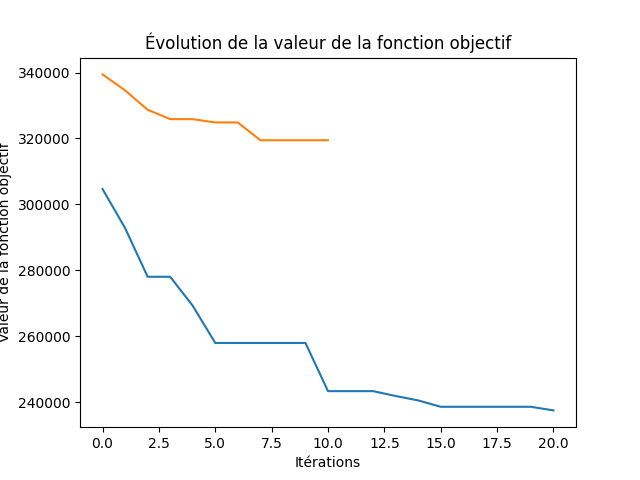
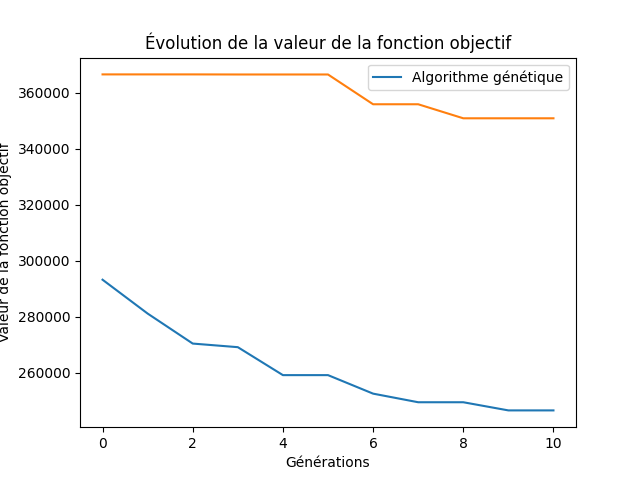
Fin

diff --git a/templates/index.html b/templates/index.html
@@ -75,6 +75,7 @@
 
         </div>
         <div class="full-line"><input type="submit" value="Start"></div>
+        <div class="full-line"><img src="/static/last.png" alt=""></div>
     </form>
 </body>
 

diff --git a/app.py b/app.py
@@ -44,7 +44,30 @@ def index():
     config_genetique, gen_val = gen.run(100, 10, 0.1)
     config_recuit, rec_val = recuit.run(10, 100)
     config_tabou, tab_val = tabou.run(10, 100)
-    return render_template('index.html', range_4=range(4), range_10=range(10), config_genetique=config_genetique, config_recuit=config_recuit, config_tabou=config_tabou, gen_val=gen_val, rec_val=rec_val, tab_val=tab_val, recuit_iterations=10, recuit_temperature=100, gen_iterations=10, gen_popsize=100, gen_mutprob=0.1, taboo_iterations=10, taboo_taille=100)
+    new_gen_config = []
+    new_rec_config = []
+    new_tab_config = []
+    for i in range(0, 4):
+        temp_gen = []
+        temp_rec = []
+        temp_tab = []
+        for j in range(10):
+            if i*10+j < len(config_genetique):
+                temp_gen.append(config_genetique[i*10+j])
+            else:
+                temp_gen.append('\0')
+            if i*10+j < len(config_recuit):
+                temp_rec.append(config_recuit[i*10+j])
+            else:
+                temp_rec.append('\0')
+            if i*10+j < len(config_tabou):
+                temp_tab.append(config_tabou[i*10+j])
+            else:
+                temp_tab.append('\0')
+        new_gen_config.append(temp_gen)
+        new_rec_config.append(temp_rec)
+        new_tab_config.append(temp_tab)
+    return render_template('index.html', range_4=range(4), range_10=range(10), config_genetique=new_gen_config, config_recuit=new_rec_config, config_tabou=new_tab_config, gen_val=gen_val, rec_val=rec_val, tab_val=tab_val, recuit_iterations=10, recuit_temperature=100, gen_iterations=10, gen_popsize=100, gen_mutprob=0.1, taboo_iterations=10, taboo_taille=100)
 
 if __name__ == '__main__':
     app.run(debug=True)

diff --git a/tabou.py b/tabou.py
@@ -75,13 +75,11 @@ def recherche_tabou(freq_bigrams, taille_liste_tabou, iterations, largeur=10):
             print(f"Iteration {iteration} - Meilleure valeur: {meilleure_valeur}")
     
     #plt.clf()
-    plt.plot(valeurs)
-    plt.xlabel('Itérations')
-    plt.ylabel('Valeur de la fonction objectif')
-    plt.title('Évolution de la valeur de la fonction objectif')
+    plt.plot(valeurs, label='Recherche Tabou')
 
     # save 
-    plt.savefig('last_tabou.png')
+    plt.legend()
+    plt.savefig('static/last.png')
     return meilleure_config, meilleure_valeur
 
 def run(iter, taille):

diff --git a/recuit_simule.py b/recuit_simule.py
@@ -64,13 +64,11 @@ def recuit_simule(freq_bigrams, temp_initiale, taux_refroidissement, iterations,
         if i % pas_rafraichissement == 0:
             print(f"Iteration {i} - Meilleure valeur: {meilleure_valeur}")
     
-    plt.plot(valeurs)
-    plt.xlabel('Itérations')
-    plt.ylabel('Valeur de la fonction objectif')
-    plt.title('Évolution de la valeur de la fonction objectif')
+    plt.plot(valeurs, label='Recuit Simulé')
 
     # out in out.png
     plt.savefig('last_recuit.png')
+    plt.legend()
 
     return meilleure_config, meilleure_valeur
 

diff --git a/genetique.py b/genetique.py
@@ -83,13 +83,14 @@ def algorithme_genetique(freq_bigrams, taille_population, prob_mutation, generat
             print(f"Generation {generation} - Meilleure valeur: {meilleure_valeur}")
     #plt.clf()
     
-    plt.plot(valeurs)
+    plt.plot(valeurs, label='Algorithme génétique')
     plt.xlabel('Générations')
     plt.ylabel('Valeur de la fonction objectif')
     plt.title('Évolution de la valeur de la fonction objectif')
 
     # save
     plt.savefig('last_genetique.png')
+    plt.legend()
 
     return meilleure_config, meilleure_valeur
 
